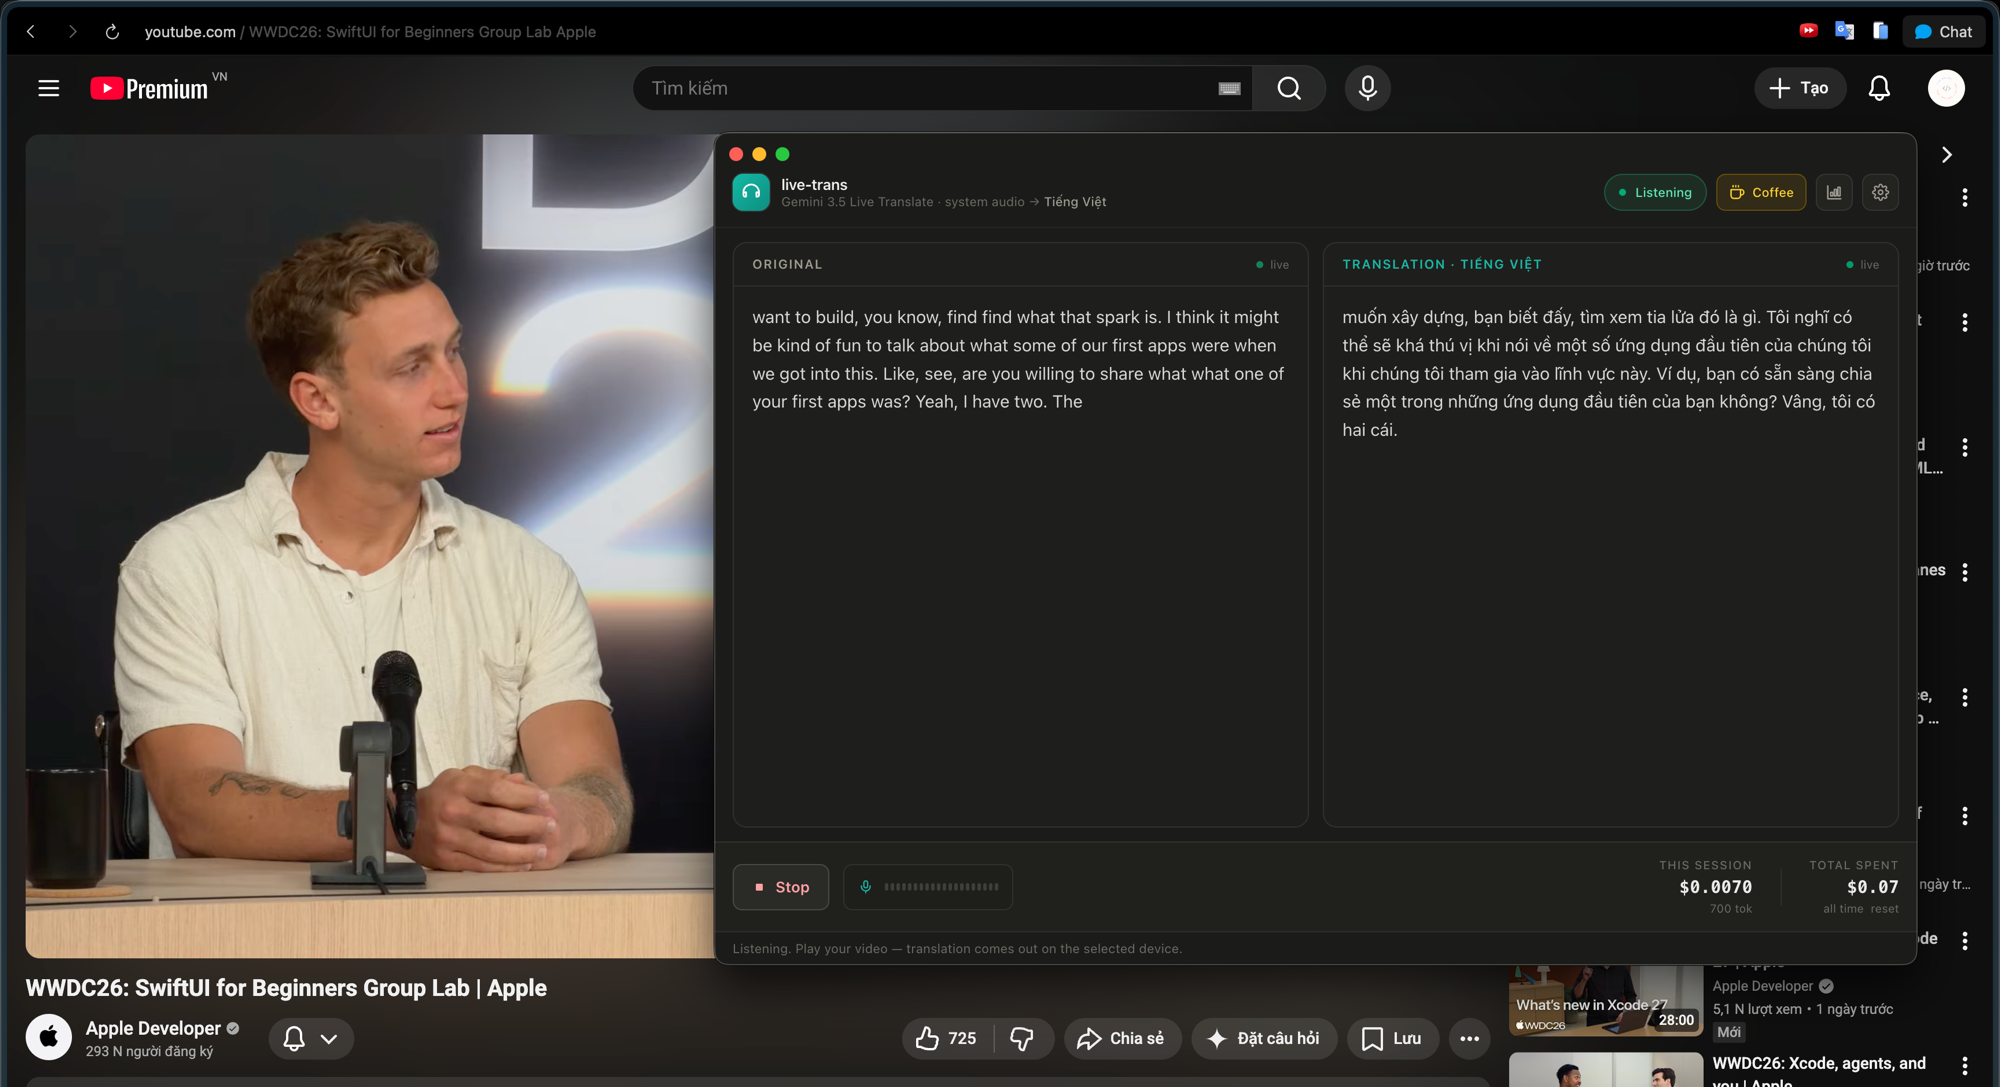
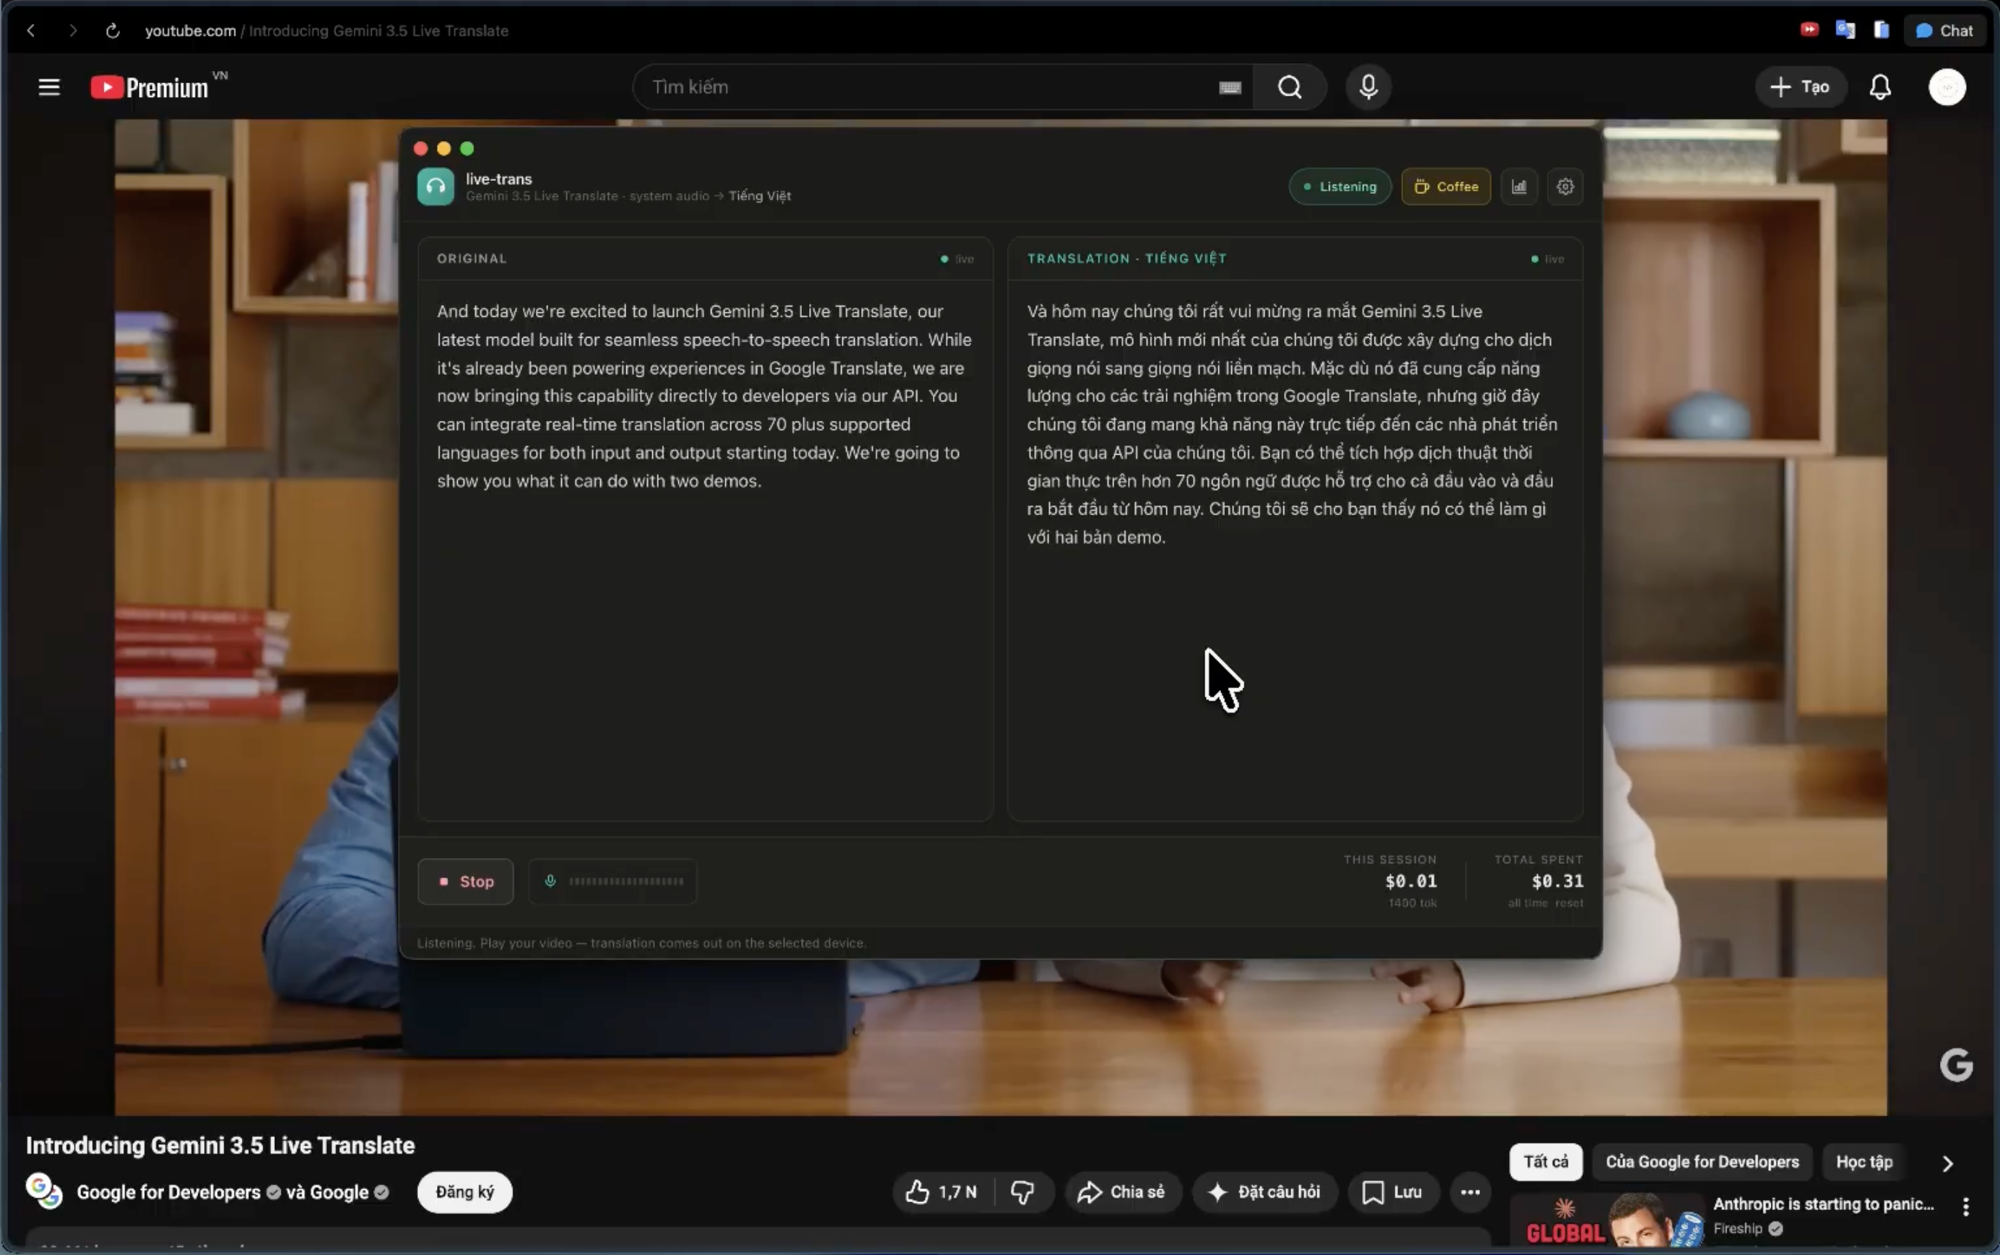
Use the live Gemini 3.5 Live Translate demo as the README screenshot
Swap in a screenshot of live-trans translating Google's own "Introducing
Gemini 3.5 Live Translate" announcement into Vietnamese, mid-session.

diff --git a/README.md b/README.md
@@ -9,7 +9,7 @@ switch, and hear the translation (and read live subtitles) in your chosen langua
 
 ![live-trans translating a WWDC video from English to Vietnamese in real time](docs/screenshot.png)
 
-<sub>Translating Apple's WWDC SwiftUI session into Vietnamese, live — original + translation side by side, with a running cost meter.</sub>
+<sub>Translating Google's "Introducing Gemini 3.5 Live Translate" video into Vietnamese, live — original + translation side by side, with a running cost meter.</sub>
 
 ## Download
 
